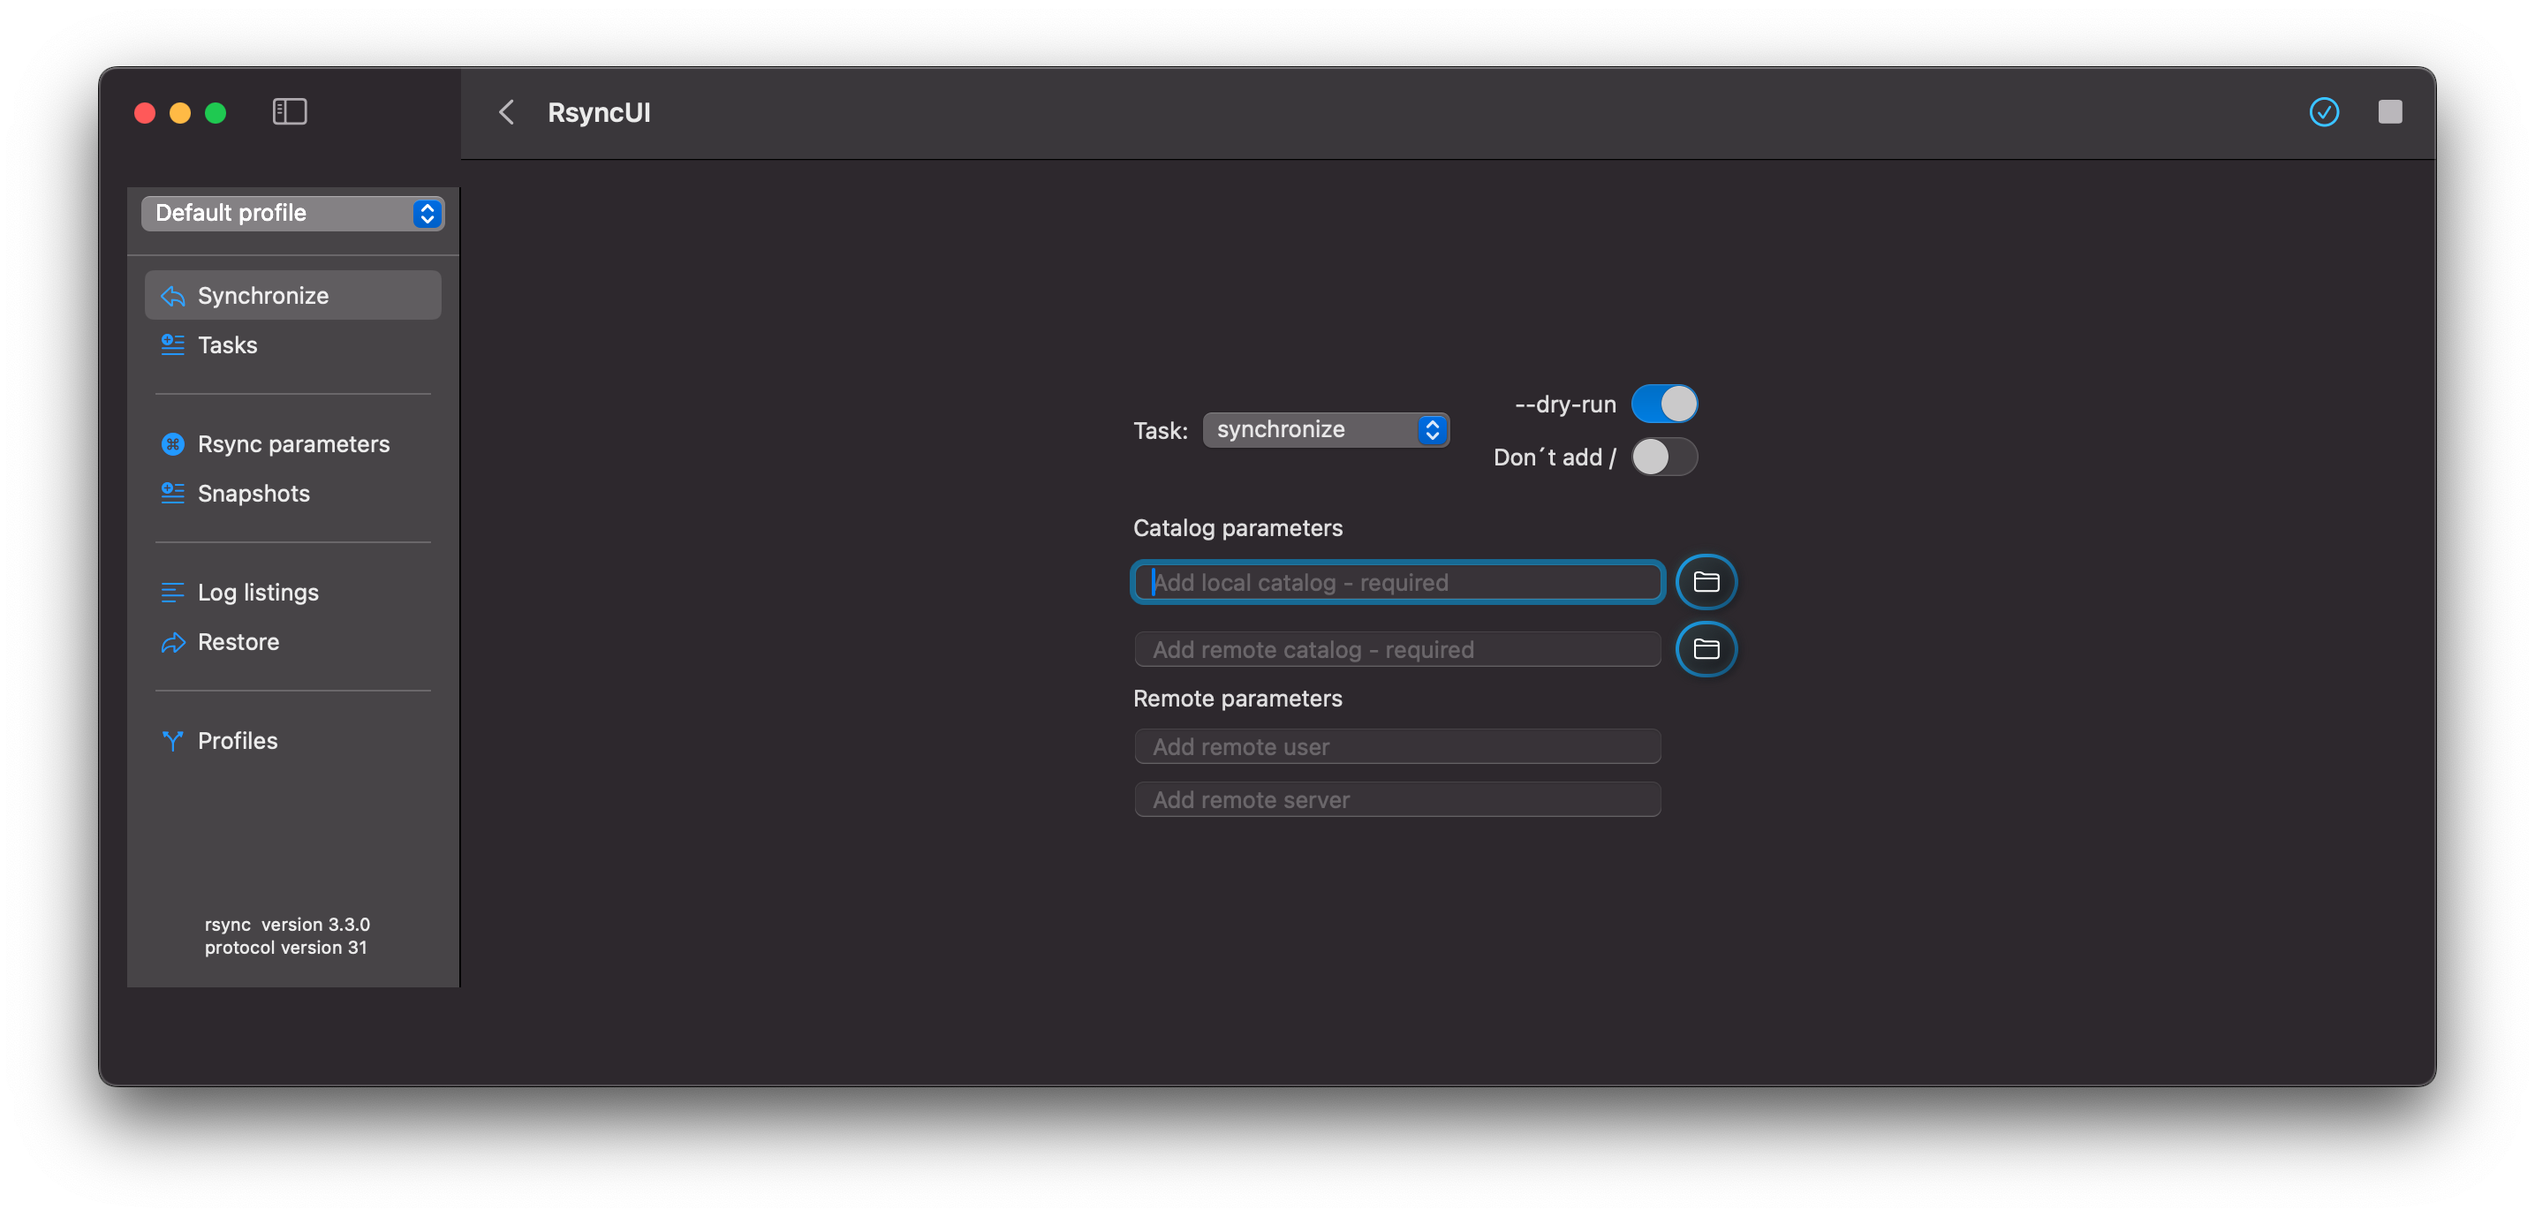
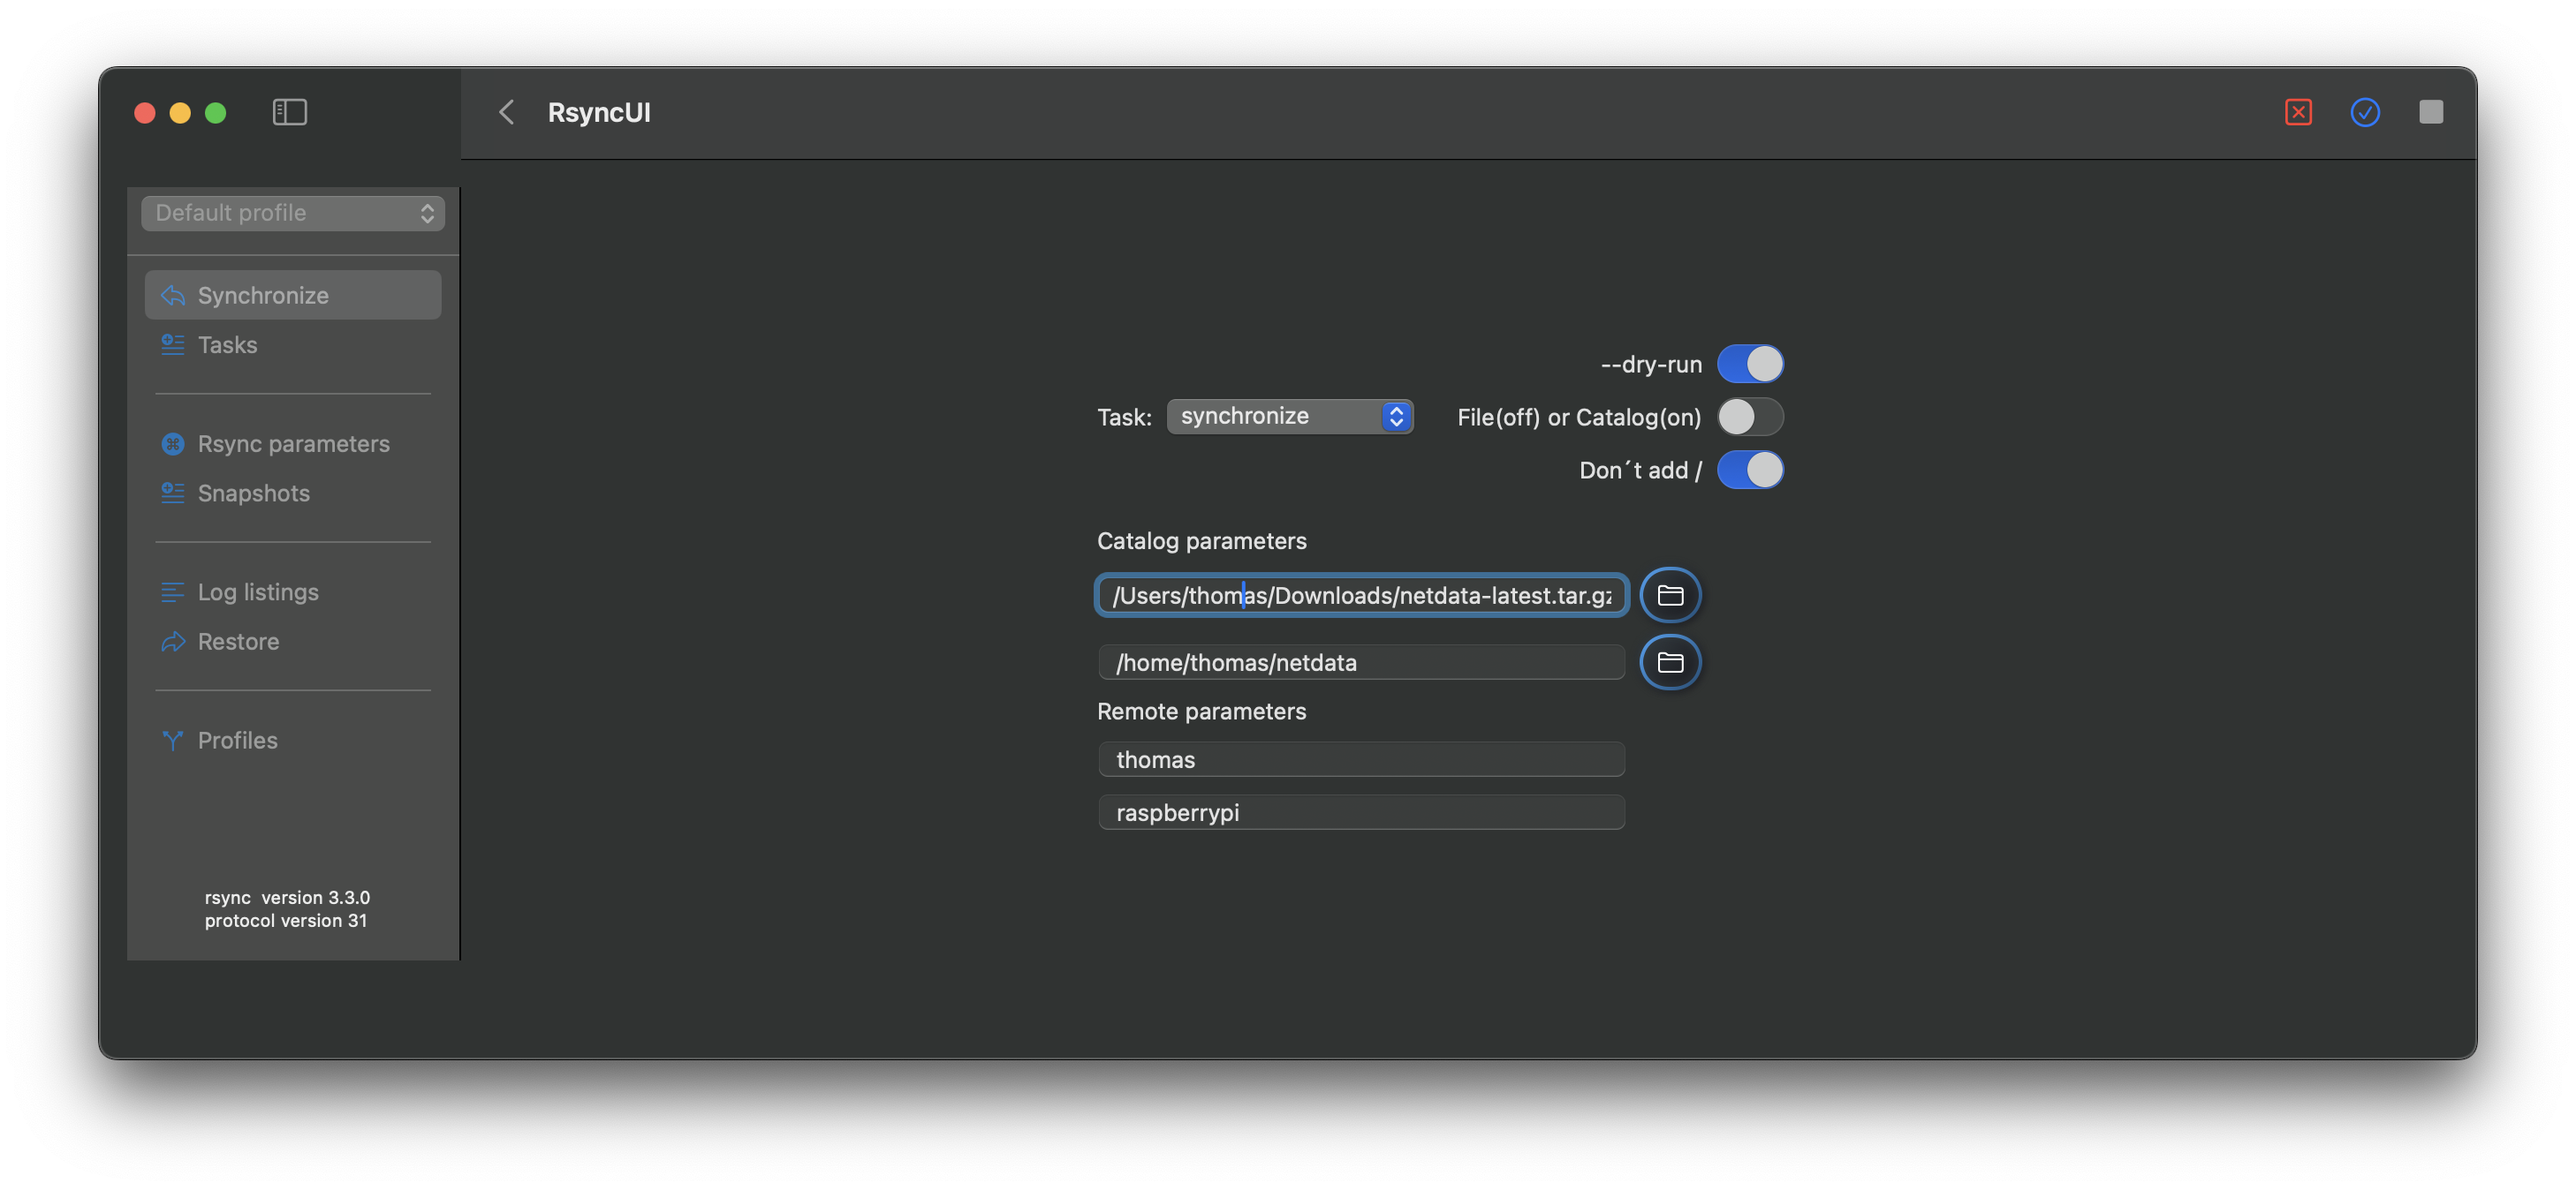
update

diff --git a/content/en/docs/Quicktask.md b/content/en/docs/Quicktask.md
@@ -6,7 +6,15 @@ tags = ["quick task"]
 categories = ["synchronize"]
 lastmod = "2021-03-18"
 +++
-Use RsyncUI for quickly synchronize files to either local or remote storage. If synchronizing to a remote storage require setup of [passwordless login](/docs/remotelogins/).
+Use RsyncUI for quickly synchronize files to either local or remote storage. If synchronizing to a remote storage require
+setup of [passwordless login](/docs/ssh/).
+
+{{< alert >}}
+
+Quicktask will save the last executed quicktask as default values. Default values might be cleared by function on the toolbar.
+
+{{< /alert >}}
+
 
 There are two types of quick tasks:
 
@@ -19,15 +27,15 @@ If `syncremote` the localcatalog in the form is the remote data and remotecatalo
 
 After entering data, default is a `--dry-run` task. It is adviced to inspect the result before the real run.
 
-### Catalog parameters
+#### Catalog parameters
 - **Local catalog**: required field
 - **Remote catalog**: required field
   - a `~` is expanded as the home catalog with full path by the remote operating system
   - the remote catalog might also be added by full path, depends where the backup catalog is placed on remote server
   - the backup catalog might also be a local catalog on a local attached disk
 
-### Remote parameters
+#### Remote parameters
 - **Remote username**:
   - username for login to remote server
-- **Remote server**: 
+- **Remote server**:
   - either server name or IP-address for remote server

diff --git a/content/en/docs/Profiles.md b/content/en/docs/Profiles.md
@@ -1,0 +1,13 @@
++++
+author = "Thomas Evensen"
+date = "2021-03-11"
+title =  "Profiles"
+tags = ["profiles"]
+categories = ["synchronize"]
+lastmod = "2021-03-18"
++++
+Tasks may be organized in profiles. A profile is simply a catalog, the name of the catalog, at the location where
+RsyncUI stores it files. The list on right side of view is all tasks which are not updated since number of
+days set in settings *"Mark days after"*.
+
+{{< figure src="/images/profiles/profiles.png" alt="" position="center" style="border-radius: 8px;" >}}
